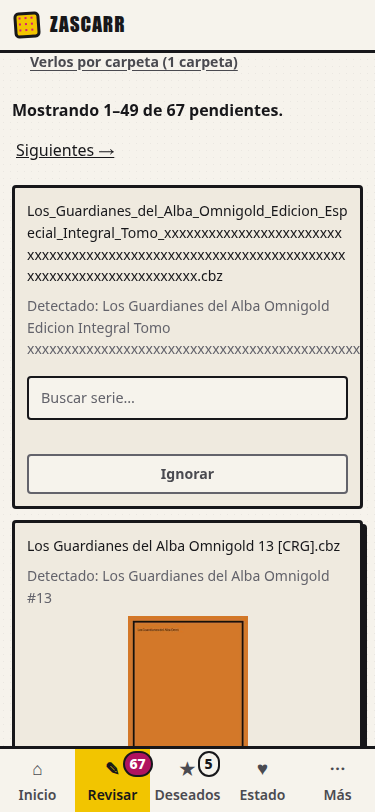
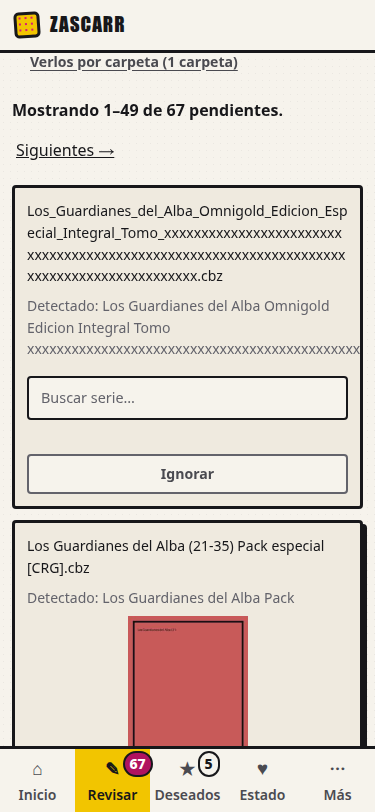
ui: el recuento de carpetas de «Por revisar» se pide después de pintar la lista (U12, #199)
Contar carpetas agrupa todos los pendientes en memoria: ~108 ms con 1.322 (medido en local),
frente a ~13 ms de toda la lista. Se carga aparte con el mismo mecanismo ligero del menú; si falla
o no hay carpetas responde 204 y el enlace queda sin número. Prueba a la escala de la instalación
de referencia y evidencia en navegador actualizada.

Changed region(s): [[0.0587, 0.6466, 0.9093, 0.9236]]

diff --git a/src/zascarr/web/templates/pendientes.html b/src/zascarr/web/templates/pendientes.html
@@ -7,8 +7,10 @@
 <p class="empty">Nada pendiente — todo lo importado se ha podido clasificar.</p>
 {% else %}
 {#- Criterio 5: el acceso a las carpetas se ve como ACCIÓN, con su recuento y qué cuenta (carpetas). -#}
-<p><a class="btn ghost pend-carpetas" href="/ui/pendientes/carpetas">
-  Verlos por carpeta{% if carpetas %} ({{ carpetas }} carpeta{{ "s" if carpetas != 1 }}){% endif %}</a></p>
+{#- El recuento se pide al cargarse (agrupar todos los pendientes cuesta; no bloquea la lista). Sin él, el enlace
+    funciona igual. -#}
+<p><a class="btn ghost pend-carpetas" href="/ui/pendientes/carpetas"
+      hx-get="/ui/pendientes/carpetas/recuento" hx-trigger="load" hx-swap="outerHTML">Verlos por carpeta</a></p>
 {% include "_pendientes_rango.html" %}
 {#- Las claves de los extremos de la página: el refresco tras resolver una tarjeta las envía para recalcular el rango. -#}
 <div id="pend-clave" hidden>

diff --git a/src/zascarr/web/templates/_pendientes_carpetas_enlace.html b/src/zascarr/web/templates/_pendientes_carpetas_enlace.html
@@ -1,0 +1,3 @@
+{#- El acceso a las carpetas CON su recuento (criterio 5 de U12). N cuenta CARPETAS, con la misma definición de grupo que
+    la pantalla de carpetas. Sin atributos hx-*: es lo que sustituye al enlace de la lista, no vuelve a pedirse. -#}
+<a class="btn ghost pend-carpetas" href="/ui/pendientes/carpetas">Verlos por carpeta ({{ carpetas }} carpeta{{ "s" if carpetas != 1 }})</a>

diff --git a/tests/test_pendientes_navegacion_pg.py b/tests/test_pendientes_navegacion_pg.py
@@ -388,29 +388,43 @@ class TestPaginaPosteriorVaciada:
 
 class TestEnlaceACarpetas:
     """Bloqueante 2: el criterio 5 pide «Verlos por carpeta (N)» y N no existía. N = número de CARPETAS, con el
-    mismo conteo de grupos que la propia pantalla de carpetas (una sola definición de «grupo»)."""
+    mismo conteo de grupos que la propia pantalla de carpetas (una sola definición de «grupo»). El recuento agrupa
+    todos los pendientes en memoria (~100 ms con 1.322, medido) y por eso NO bloquea la lista: se pide al cargarse."""
 
-    async def test_el_enlace_dice_cuantas_carpetas_y_coincide_con_la_pantalla_de_carpetas(self, entorno):
+    async def _fragmento(self) -> tuple[int, str]:
+        async with cliente() as c:
+            r = await c.get("/ui/pendientes/carpetas/recuento")
+        return r.status_code, " ".join(html.unescape(re.sub(r"<[^>]+>", " ", r.text)).split())
+
+    async def test_la_lista_no_espera_al_recuento_y_el_enlace_ya_funciona_sin_el(self, entorno):
+        await sembrar(entorno, 3)
+        t = (await pedir()).t
+        m = re.search(r'<a class="[^"]*pend-carpetas[^"]*"([^>]*)>\s*Verlos por carpeta\s*</a>', t)
+        assert m, "falta el enlace a carpetas"
+        assert 'href="/ui/pendientes/carpetas"' in m.group(1)
+        assert 'hx-get="/ui/pendientes/carpetas/recuento"' in m.group(1) and 'hx-trigger="load"' in m.group(1)
+        assert "carpetas)" not in html.unescape(t)               # la lista no lo calcula
+
+    async def test_el_fragmento_dice_cuantas_carpetas_y_coincide_con_la_pantalla_de_carpetas(self, entorno):
         for carpeta in ("Comics/Flash (1987)", "Comics/Batman (2011)", "Manga/Akira"):
             await archivos(entorno, f"{carpeta.split('/')[1]} 01.cbz", f"{carpeta.split('/')[1]} 02.cbz",
                            carpeta=carpeta, en_disco=False)
-        p = await pedir()
-        m = re.search(r'<a class="[^"]*pend-carpetas[^"]*" href="/ui/pendientes/carpetas">(.*?)</a>', p.t, re.S)
-        assert m, "no hay enlace a carpetas con su clase"
-        assert " ".join(re.sub(r"<[^>]+>", " ", m.group(1)).split()) == "Verlos por carpeta (3 carpetas)"
+        estado, texto = await self._fragmento()
+        assert estado == 200 and texto == "Verlos por carpeta (3 carpetas)"
         from zascarr.services.revision_carpetas import RevisionCarpetas
         async with entorno.banco.fabrica() as s:
             assert (await RevisionCarpetas(s).carpetas(limite=1)).totales.grupos == 3
 
     async def test_una_sola_carpeta_va_en_singular(self, entorno):
         await sembrar(entorno, 3)
-        assert "Verlos por carpeta (1 carpeta)" in (await pedir()).visible
+        assert await self._fragmento() == (200, "Verlos por carpeta (1 carpeta)")
 
-    async def test_sin_pendientes_no_hay_enlace(self, entorno):
+    async def test_sin_pendientes_no_hay_enlace_ni_fragmento(self, entorno):
         assert "pend-carpetas" not in (await pedir()).t
+        estado, _ = await self._fragmento()
+        assert estado == 204
 
-    async def test_si_el_recuento_de_carpetas_falla_la_bandeja_sigue_funcionando(self, entorno, monkeypatch):
-        """El recuento es un adorno de un enlace: no puede tumbar la lista."""
+    async def test_si_el_recuento_falla_el_fragmento_es_204_y_la_bandeja_no_se_entera(self, entorno, monkeypatch):
         from zascarr.web import pendientes as web
 
         async def roto(db):
@@ -419,8 +433,7 @@ class TestEnlaceACarpetas:
         orden = await sembrar(entorno, 3)
         p = await pedir()
         assert p.status == 200 and p.ids == orden
-        assert re.search(r'<a class="[^"]*pend-carpetas[^"]*" href="/ui/pendientes/carpetas">\s*Verlos por carpeta\s*</a>', p.t)
-        assert "carpetas)" not in p.visible
+        assert (await self._fragmento())[0] == 204
 
 
 class TestRefrescosFueraDeOrden:
@@ -437,3 +450,39 @@ class TestRefrescosFueraDeOrden:
         assert span, r.text
         assert 'hx-sync="#pend-rango:replace"' in span.group(0)
         assert 'hx-include="#pend-clave"' in span.group(0) and 'hx-target="#pend-rango"' in span.group(0)
+
+
+class TestALaEscalaDeLaInstalacionDeReferencia:
+    """La auditoría midió 1.322 pendientes en 108 carpetas. No es una prueba de rendimiento (no hay umbral: el tiempo
+    depende de la máquina y no se midió en la Pi); fija que el rango, el total y el recuento de carpetas son correctos
+    a esa escala y deja el tiempo local en el informe de la prueba."""
+
+    async def test_1322_pendientes_en_108_carpetas(self, entorno):
+        import time
+
+        from zascarr.services.revision_carpetas import RevisionCarpetas
+        # 107 carpetas de 12 archivos + 1 de 38 = 1.322 pendientes en 108 carpetas
+        creados = 0
+        for i in range(108):
+            n = 12 if i < 107 else 38
+            await archivos(entorno, *(f"S{i:03d} {k:02d}.cbz" for k in range(n)),
+                           carpeta=f"Comics/Serie {i:03d}", en_disco=False)
+            creados += n
+        assert creados == 1322
+        total = await total_en_bd(entorno)
+        assert total == creados
+        await pedir()                                       # calienta (conexión, plantillas)
+        t0 = time.perf_counter()
+        p = await pedir()
+        lista_ms = (time.perf_counter() - t0) * 1000
+        t0 = time.perf_counter()
+        async with cliente() as c:
+            fragmento = await c.get("/ui/pendientes/carpetas/recuento")
+        recuento_ms = (time.perf_counter() - t0) * 1000
+        async with entorno.banco.fabrica() as s:
+            grupos = (await RevisionCarpetas(s).carpetas(limite=1)).totales.grupos
+        assert grupos == 108
+        assert p.status == 200 and p.total == total and len(p.ids) == PAGINA
+        assert f"({grupos} carpetas)" in " ".join(re.sub(r"<[^>]+>", " ", fragmento.text).split())
+        print(f"\n[U12] {total} pendientes en {grupos} carpetas (local, no Pi): la lista = {lista_ms:.0f} ms y "
+              f"el recuento de carpetas, que va aparte, = {recuento_ms:.0f} ms")

diff --git a/src/zascarr/web/pendientes.py b/src/zascarr/web/pendientes.py
@@ -90,15 +90,6 @@ async def contar_carpetas(db: AsyncSession) -> int:
     return (await RevisionCarpetas(db).carpetas(limite=1)).totales.grupos
 
 
-async def _carpetas_o_nada(db: AsyncSession) -> int | None:
-    """El recuento adorna un enlace: si falla, la bandeja sigue y el enlace va sin número."""
-    try:
-        return await contar_carpetas(db)
-    except Exception as exc:  # noqa: BLE001 — no debe tumbar la lista
-        logger.warning("pendientes.recuento_de_carpetas_fallo", error=type(exc).__name__)
-        return None
-
-
 def _enlace(parametro: str, clave: ClavePendiente) -> str:
     return f"/ui/pendientes?{urlencode({parametro: clave.a_texto()})}"
 
@@ -125,10 +116,8 @@ async def index(
     contexto: dict = {
         "cards": [_card(f) for f in pagina.archivos],
         "rango": _rango(pagina.desde, pagina.hasta, pagina.total),
-        "siguiente": None, "anterior": None, "inicio": None, "primero": None, "ultimo": None,
-        "carpetas": None}
+        "siguiente": None, "anterior": None, "inicio": None, "primero": None, "ultimo": None}
     if pagina.archivos:
-        contexto["carpetas"] = await _carpetas_o_nada(db)
         primero = ClavePendiente.de(pagina.archivos[0])
         ultimo = ClavePendiente.de(pagina.archivos[-1])
         contexto.update(
@@ -138,6 +127,28 @@ async def index(
             inicio="/ui/pendientes" if pagina.hay_anterior else None)
     resp = templates.TemplateResponse(request, "pendientes.html", contexto)
     resp.headers["Cache-Control"] = "no-store"      # la cola cambia con cada tarjeta resuelta
+    return resp
+
+
+@router.get("/carpetas/recuento", response_class=HTMLResponse)
+async def recuento_de_carpetas(
+    request: Request, db: AsyncSession = Depends(get_db),
+) -> HTMLResponse:
+    """El enlace «Verlos por carpeta (N carpetas)», que la lista pide DESPUÉS de pintarse.
+
+    Contar carpetas agrupa todos los pendientes en memoria (medido: ~100 ms con 1.322, frente a
+    ~13 ms de toda la lista), así que no bloquea la carga de la bandeja. Si falla, o no hay
+    carpetas, responde 204 y el enlace se queda como estaba, sin número: es un adorno del
+    enlace, no puede romper nada."""
+    try:
+        n = await contar_carpetas(db)
+    except Exception as exc:  # noqa: BLE001 — no debe afectar a la bandeja
+        logger.warning("pendientes.recuento_de_carpetas_fallo", error=type(exc).__name__)
+        return HTMLResponse(status_code=204)
+    if not n:
+        return HTMLResponse(status_code=204)
+    resp = templates.TemplateResponse(request, "_pendientes_carpetas_enlace.html", {"carpetas": n})
+    resp.headers["Cache-Control"] = "no-store"
     return resp
 
 

diff --git a/docs/design/ui-u12/capturar_u12.py b/docs/design/ui-u12/capturar_u12.py
@@ -193,6 +193,8 @@ async def main(base: str, salida: Path) -> None:
         await nav.js("document.querySelectorAll('img.cover').forEach(i => i.scrollIntoView())")   # fuerza la carga diferida
         await asyncio.sleep(1.5)
         await nav.js("window.scrollTo(0, 0)")
+        datos["enlace_a_carpetas"] = await nav.js(
+            "(document.querySelector('a.pend-carpetas') || {}).textContent?.replace(/\\s+/g, ' ').trim()")
         datos["pagina_1"] = await nav.js(MEDIR)
         datos["peticiones_portada"] = {"total": len(peticiones(nav, r"/portada$")), "estados": sorted(respuestas(nav, r"/portada$"))}
         await nav.foto(salida / "1-primera-pagina-375.png", completa=False)

diff --git a/docs/design/ui-u12/README.md b/docs/design/ui-u12/README.md
@@ -26,10 +26,24 @@ referencia: `docs/design/benchmark-U12-pendientes-escala.md` (PR #213).
 | Disponible (11) | La portada mide **120 × 180** y está **debajo** del nombre | PASS |
 | Desconocida sin hueco (10) | **43 portadas** que fallan, todas con **0 px** de alto; sin `onerror` en la página | PASS (Chrome) |
 | Peticiones de portada | 49 para 50 tarjetas (la del `.cbr` no pide): 6 × 200 y 43 × 404 | informativo |
-| Enlace a carpetas (criterio 5) | «Verlos por carpeta (**1 carpeta**)»: N = número de **carpetas** (grupos), con la misma definición que la pantalla de carpetas. En el ensayo todo está en `_Unsorted`, de ahí 1 | PASS |
+| Enlace a carpetas (criterio 5) | «Verlos por carpeta (**1 carpeta**)», ya cargado en la página: N = número de **carpetas** (grupos), con la misma definición que la pantalla de carpetas. En el ensayo todo está en `_Unsorted`, de ahí 1. El número **se pide después de pintar la lista** (ver «Coste») | PASS |
 | Refrescos fuera de orden (bloqueante 3) | Dos «Ignorar» seguidos; la respuesta del **primer** refresco se retiene hasta que termina el segundo y entonces se suelta. Con `hx-sync`: **1 petición abortada** y queda «1–48 de 65». **Control sin `hx-sync`: también queda «1–48 de 63»** (ver abajo) | PASS |
 
 ![primera página](1-primera-pagina-375.png) ![segunda](2-segunda-pagina-375.png) ![tras ignorar](3-tras-ignorar-375.png)
+
+## Coste del recuento de carpetas (medido en local, **no en la Pi**)
+
+Con la escala de la instalación de referencia (1.322 pendientes en 108 carpetas, Postgres real, esta máquina):
+
+| Qué | Tiempo |
+|---|---|
+| `GET /ui/pendientes` (lista, rango, enlaces) | **~13–15 ms** |
+| `GET /ui/pendientes/carpetas/recuento` (agrupa todos los pendientes en memoria) | **~107–108 ms** |
+| Primera versión, con el recuento DENTRO de la lista | ~113–115 ms por carga |
+
+Por eso el número se pide **después** de pintar la lista (mismo mecanismo ligero que ya usa el menú): la lista no
+espera, y si el recuento falla el enlace sigue funcionando sin número. En la Pi será más lento; **no medido**. Reducirlo
+de verdad exigiría contar en SQL, y el criterio de agrupación (`dividir_ruta`) vive en Python.
 
 ## Refrescos fuera de orden: lo que se midió y lo que NO se puede afirmar
 
